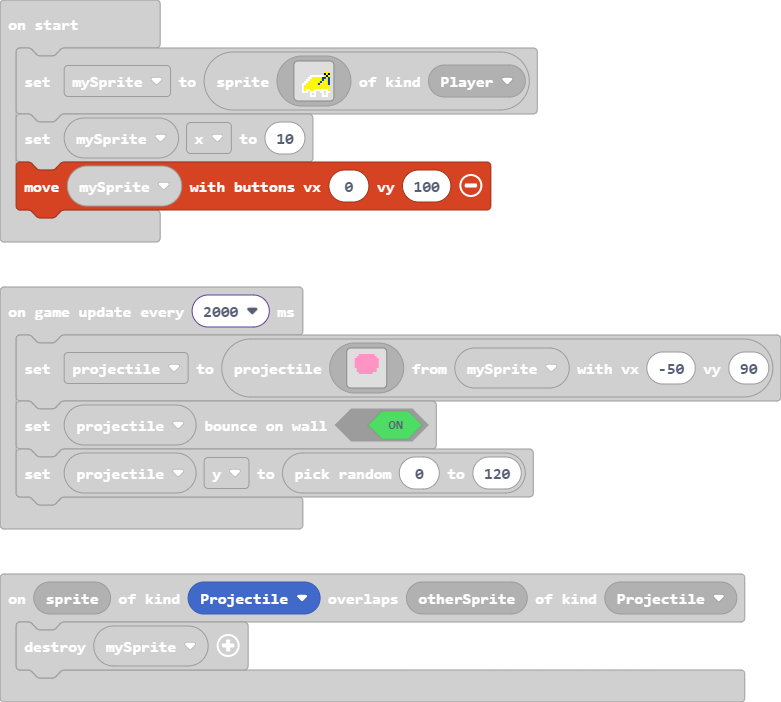
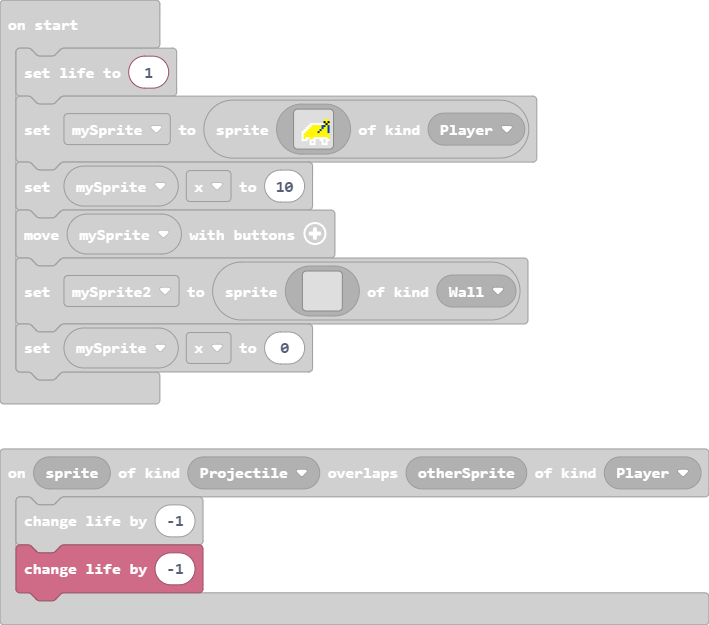
Update pxt.json, main.blocks, main.ts

diff --git a/main.ts b/main.ts
@@ -3,9 +3,10 @@ namespace SpriteKind {
 }
 sprites.onOverlap(SpriteKind.Projectile, SpriteKind.Player, function (sprite, otherSprite) {
     info.changeLifeBy(-1)
+    info.changeLifeBy(-1)
 })
 let projectile: Sprite = null
-info.setLife(3)
+info.setLife(1)
 let mySprite = sprites.create(img`
     . . . . . . . . . . . . . . . . 
     . . . . . . . . . . . . . . . . 
